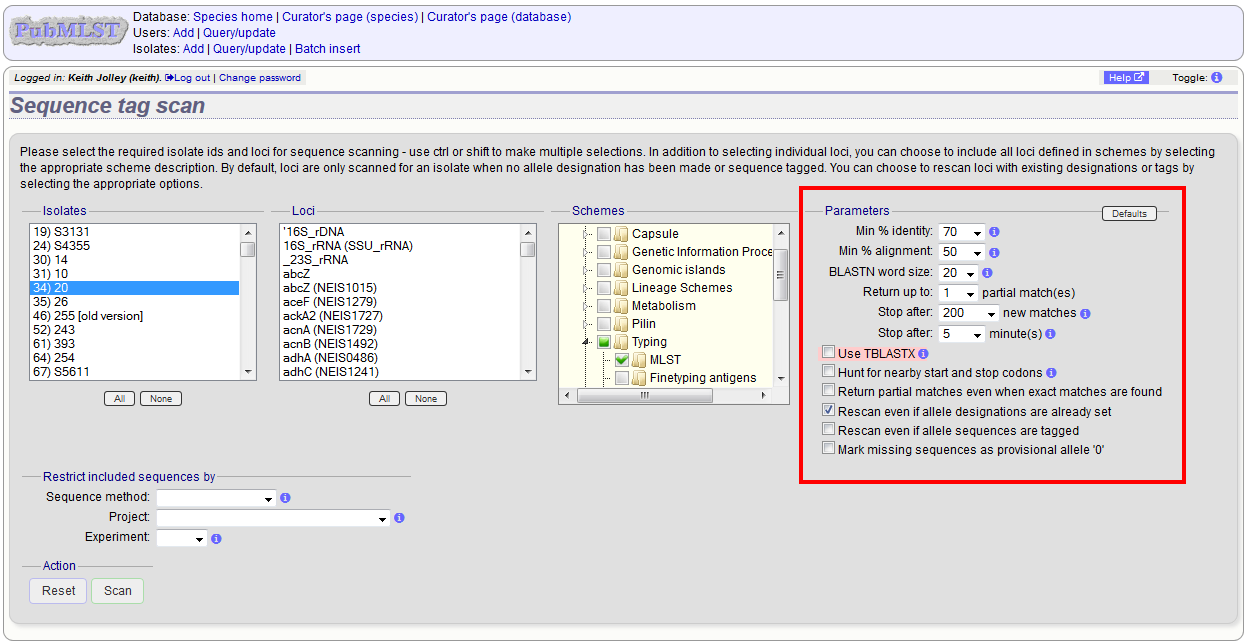
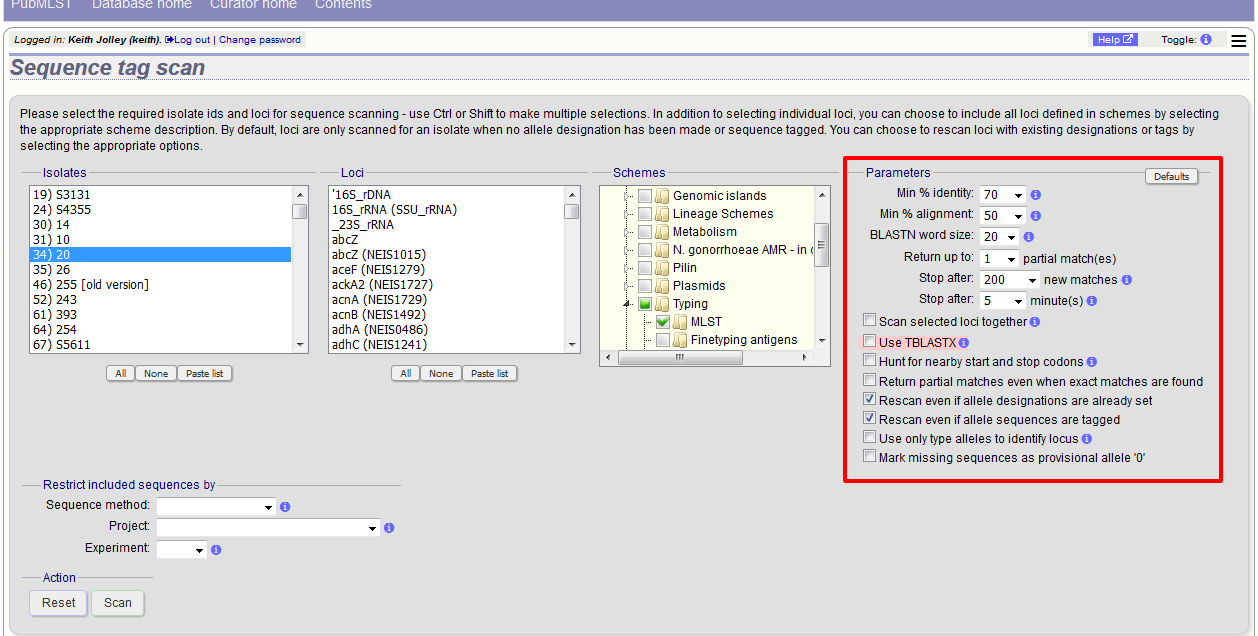
Fast web-based scanning.

diff --git a/curator_guide.rst b/curator_guide.rst
@@ -875,15 +875,24 @@ variable over time. If a partial match is found to a type allele then a full
 database lookup will be performed to identify any known alleles. An allele can
 be given a status of type allele when :ref:`defining<single_allele_upload>`.
 
+If fast scanning is enabled, there will also be an option to 'Scan selected
+loci together'. This can be significantly quicker than a locus-by-locus search 
+against all alleles but is not enabled by default as it can use more memory on
+the server and requires :ref:`exemplar alleles<defining_exemplars>` to be 
+defined.
+
 Options can be returned to their default setting by clicking the 'Defaults' 
 button.
 
 .. image:: /images/curation/tag_scanning3.png
 
 Press 'Scan'. The system takes approximately 1-2 seconds to identify each 
-sequence (depending on machine speed and size of definitions databases). Any 
-identified sequences will be listed in a table, with checkboxes indicating 
-whether allele sequences or sequence regions are to be tagged.
+sequence (depending on machine speed and size of definitions databases). 
+Alternatively, if 'Scan selected loci together' is available and selected, it 
+may take longer to return initial results but total time should be less (e.g. 
+a 2000 loci cgMLST scheme may be returned in 1-2 minutes). Any identified 
+sequences will be listed in a table, with checkboxes indicating whether allele 
+sequences or sequence regions are to be tagged.
 
 .. image:: /images/curation/tag_scanning4.png
 

diff --git a/offline_tools.rst b/offline_tools.rst
@@ -179,6 +179,10 @@ genome followed by a direct database lookup of the sequence found to identify
 the exact allele found. This is usually combined with the autotagger --fast 
 option.
 
+Once exemplars have been defined you may also wish to set the fast_scan="yes"
+option in the config.xml file. This enables their use for scanning within the
+web curators' interface. 
+
 There is a script called 'find_exemplars.pl' in the BIGSdb scripts/maintenance
 directory. 
 
